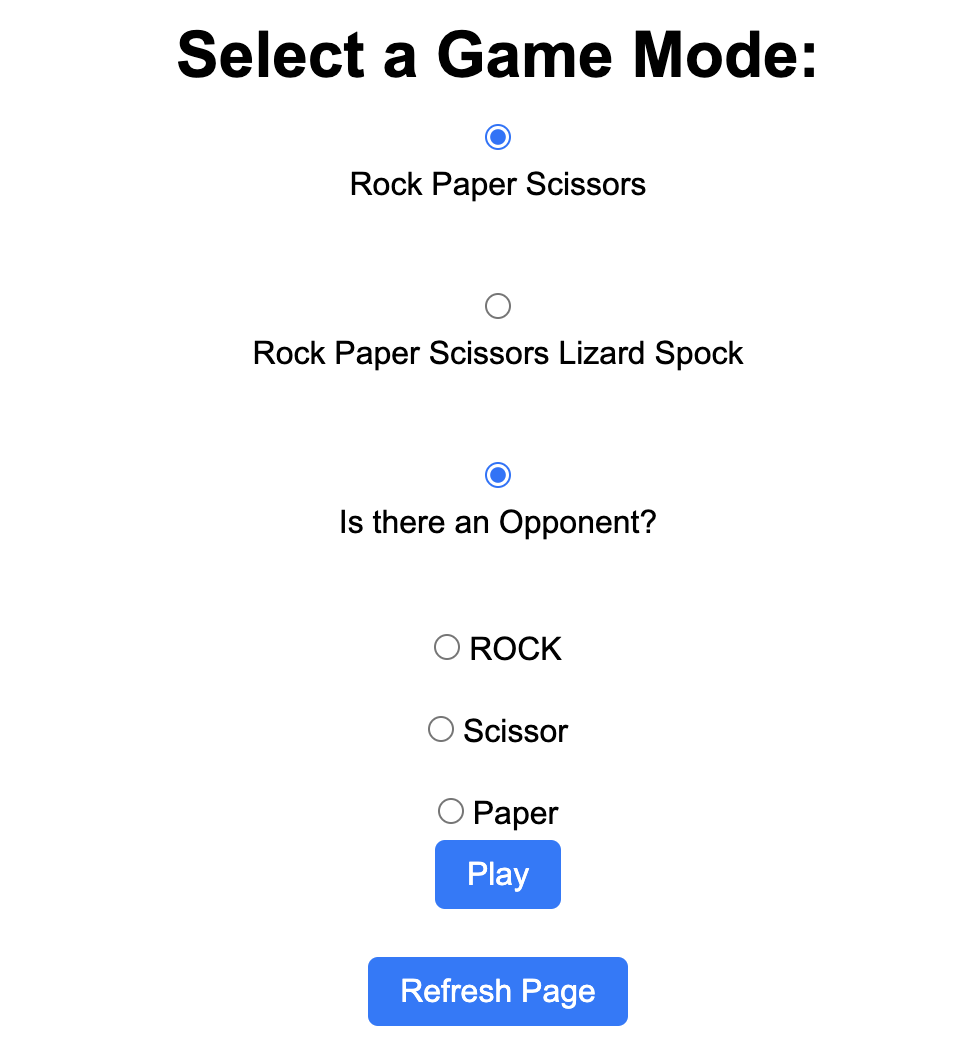
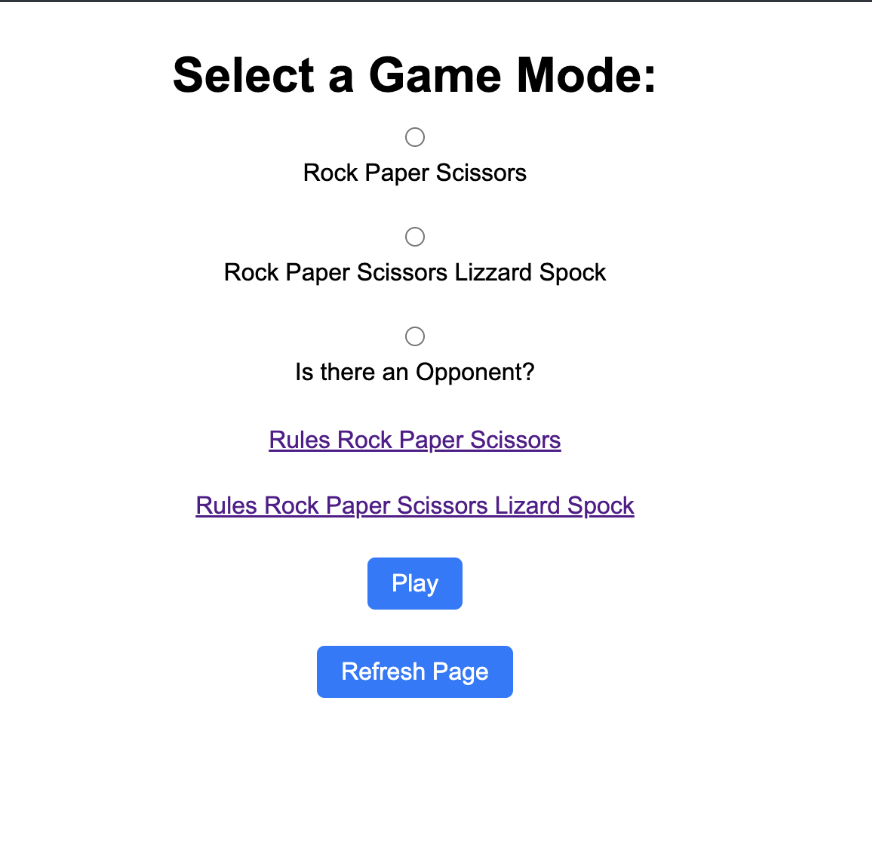
Adding Links

diff --git a/public/styles.css b/public/styles.css
@@ -1,60 +1,84 @@
 /* Reset margins and paddings */
 * {
-    margin: 0;
-    padding: 0;
-    box-sizing: border-box;
-  }
-  
-  /* Set the font family for the entire document */
-  body {
-    font-family: Arial, sans-serif;
-  }
-  
-  /* Center the content and apply a max-width */
-  .container {
-    margin: 0 auto;
-    max-width: 800px;
-    padding: 2rem;
-  }
-  
-  /* Add some spacing and center align the text for headings */
-  h1 {
-    margin-bottom: 1rem;
-    text-align: center;
-  }
-  
-  /* Style the form elements */
-  form {
-    display: flex;
-    flex-direction: column;
-    align-items: center;
-  }
-  
-  /* Add spacing between form elements */
-  form input[type="radio"],
-  form label,
-  form button {
-    margin-bottom: 0.5rem;
-  }
-  
-  /* Style the submit and refresh buttons */
-  button {
-    background-color: #007bff;
-    border: none;
-    border-radius: 5px;
-    color: white;
-    cursor: pointer;
-    font-size: 1rem;
-    padding: 0.5rem 1rem;
-    transition: background-color 0.3s ease;
-  }
-  
-  button:hover {
-    background-color: #0056b3;
-  }
-  
-  /* Add some spacing between the submit and refresh buttons */
-  #refreshButton {
-    margin-top: 1rem;
-  }
-  
+  margin: 0;
+  padding: 0;
+  box-sizing: border-box;
+}
+
+/* Set the font family for the entire document */
+body {
+  font-family: Arial, sans-serif;
+}
+
+/* Center the content and apply a max-width */
+.container {
+  margin: 0 auto;
+  max-width: 800px;
+  padding: 2rem;
+}
+
+/* Add some spacing and center align the text for headings */
+h1 {
+  margin-bottom: 1rem;
+  text-align: center;
+}
+
+/* Style the form elements */
+form {
+  display: flex;
+  flex-direction: column;
+  align-items: center;
+}
+
+/* Add spacing between form elements */
+form input[type="radio"],
+form label,
+form button {
+  margin-bottom: 0.5rem;
+}
+
+/* Style the submit and refresh buttons */
+button {
+  background-color: #007bff;
+  border: none;
+  border-radius: 5px;
+  color: white;
+  cursor: pointer;
+  font-size: 1rem;
+  padding: 0.5rem 1rem;
+  transition: background-color 0.3s ease;
+}
+
+#rockSpockPlay {
+  padding-bottom: 25px;
+  padding-top: 25px;
+}
+
+button:hover {
+  background-color: #0056b3;
+}
+
+/* Add some spacing between the submit and refresh buttons */
+#refreshButton {
+  margin-top: 1rem;
+}
+
+#rockView {
+  padding-bottom: 20px;
+}
+
+#scissorView {
+  padding-bottom: 20px;
+}
+
+#paperView {
+  padding-bottom: 20px;
+}
+
+#spockView {
+  padding-bottom: 20px;
+}
+
+#lizardView {
+  padding-bottom: 20px;
+}

diff --git a/public/index.html b/public/index.html
@@ -7,25 +7,27 @@
     <!-- Link to your script file(s) and CSS in here somewhere -->
 </head>
 <body>
+<!-- Your interface markup goes here -->
+<!-- For interface examples, look in the `/examples/` directory in the root of your starter code repo. -->
     <div class="container">
         <h1>Select a Game Mode:</h1>
         <form id="gameForm">
             <input type="radio" id="rpsRadio" name="game" value="rps">
             <label for="rpsRadio">Rock Paper Scissors</label>
             <br>
-            <input type="radio" id="rplsRadio" name="game" value="rpls">
-            <label for="rplsRadio">Rock Paper Scissors Lizard Spock</label>
+            <input type="radio" id="rpslsRadio" name="game" value="rpsls">
+            <label for="rpslsRadio">Rock Paper Scissors Lizzard Spock</label>
             <br>
             <input name="opp" type="radio" id="hasOpp" value="opponent">
             <label for="hasOpp">Is there an Opponent?</label>
             <br>
             <div id="rockView" style="display:none">
                 <input name="shoot" type="radio" id="rock" value="rock">
-                <label for="rock">ROCK</label>
+                <label for="rock">Rock</label>
             </div>
             <div id="scissorView" style="display:none">
                 <input name="shoot" type="radio" id="scissor" value="scissor">
-                <label for="scissor">Scissor</label>
+                <label for="scissor">Scissors</label>
             </div>
             <div id="paperView" style="display:none">
                 <input name="shoot" type="radio" id="paper" value="paper">
@@ -39,6 +41,12 @@
                 <input name="shoot" type="radio" id="spock" value="spock">
                 <label for="spock">Spock</label>
             </div>
+            <div id="rockPlay">
+                <a href="https://en.wikipedia.org/wiki/Rock_paper_scissors">Rules Rock Paper Scissors</a>
+            </div>
+            <div id="rockSpockPlay">
+                <a href="https://www.wikihow.com/Play-Rock-Paper-Scissors-Lizard-Spock">Rules Rock Paper Scissors Lizard Spock</a>
+            </div>
             <div>
                 <button type="submit" id="submitButton">Play</button>
             </div>
@@ -47,8 +55,6 @@
             </div>
             <div id="result" style="display:none"></div>
         </form>
-        <!-- Your interface markup goes here -->
-        <!-- For interface examples, look in the `/examples/` directory in the root of your starter code repo. -->
     </div>
 </body>
 </html>

diff --git a/public/scripts.js b/public/scripts.js
@@ -30,9 +30,8 @@ function main(){
             fetch('/app/rps/play?shot=' + getSelectedShootValue(), {
                 method: 'GET',
             })
-            .then(res => res.json()) // Parse the response as JSON and return a new Promise
+            .then(res => res.json()) 
             .then(data => {
-                console.log(data);
                 const result = data["result"];
                 const resultDiv = document.getElementById("result");
                 resultDiv.innerText = result;
@@ -41,10 +40,9 @@ function main(){
             .catch(error => {
                 console.error('Error:', error);
             });
-            
-            
+              
         } else if (rplsRadio.checked) {
-            console.log("rpls was selected")
+          console.log("rpsls was selected");
           window.location.href = '/app/rpsls';
         } else {
           alert('Please select a game mode.');
@@ -52,7 +50,6 @@ function main(){
       });
     
       document.getElementById("rpsRadio").addEventListener('click', (event) => {
-        console.log("onclick works")
         const views = ["rockView","scissorView","paperView"];
         views.forEach(view => {
             document.getElementById(view).style.display ="inline";
@@ -63,8 +60,7 @@ function main(){
         })
       });
     
-      document.getElementById("rplsRadio").addEventListener('click', (event) => {
-        console.log("onclick works")
+      document.getElementById("rpslsRadio").addEventListener('click', (event) => {
         const views = ["rockView","scissorView","paperView","lizardView","spockView"];
         views.forEach(view => {
             document.getElementById(view).style.display ="inline";
@@ -74,6 +70,4 @@ function main(){
       document.getElementById('refreshButton').addEventListener('click', () => {
         window.location.reload();
       });
-    
-    
 }
